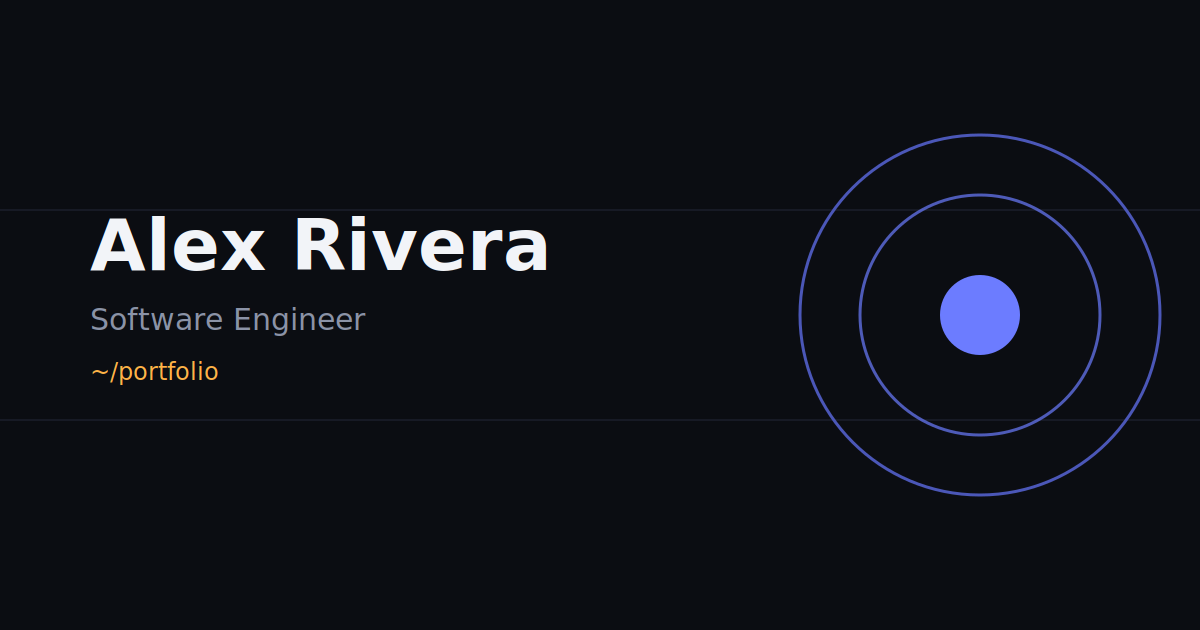
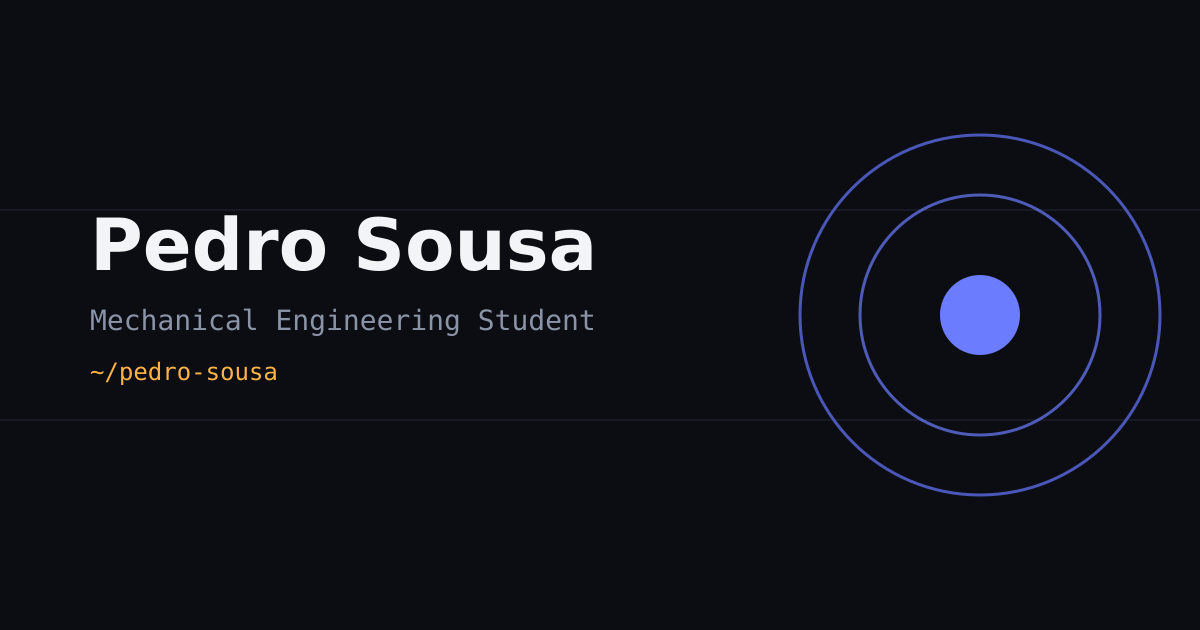
Simplifications

Changed region(s): [[0.0617, 0.3317, 0.4933, 0.4524], [0.0617, 0.4825, 0.4933, 0.5429], [0.0617, 0.573, 0.2467, 0.6032]]

diff --git a/assets/css/micro-interactions.css b/assets/css/micro-interactions.css
@@ -50,18 +50,18 @@ body[data-custom-cursor="active"] .btn {
 }
 
 .cursor-dot {
-  width: 6px;
-  height: 6px;
-  margin: -3px 0 0 -3px;
+  width: 5px;
+  height: 5px;
+  margin: -2.5px 0 0 -2.5px;
   border-radius: var(--radius-full);
   background: var(--color-accent-indigo);
   transition: opacity var(--duration-base) var(--ease-standard);
 }
 
 .cursor-ring {
-  width: 32px;
-  height: 32px;
-  margin: -16px 0 0 -16px;
+  width: 28px;
+  height: 28px;
+  margin: -14px 0 0 -14px;
   transition: opacity var(--duration-base) var(--ease-standard),
     width var(--duration-base) var(--ease-standard),
     height var(--duration-base) var(--ease-standard),
@@ -74,59 +74,22 @@ body[data-custom-cursor="active"] .btn {
   height: 100%;
   border-radius: var(--radius-full);
   border: 1px solid var(--color-accent-indigo-dim);
-  transition: border-radius var(--duration-base) var(--ease-standard),
-    border-color var(--duration-base) var(--ease-standard),
-    background-color var(--duration-base) var(--ease-standard);
+  transition: border-color var(--duration-base) var(--ease-standard);
 }
 
 .cursor-ring[data-hover="true"] {
-  width: 52px;
-  height: 52px;
-  margin: -26px 0 0 -26px;
+  width: 34px;
+  height: 34px;
+  margin: -17px 0 0 -17px;
 }
 
 .cursor-ring[data-hover="true"] .cursor-ring-shape {
   border-color: var(--color-accent-indigo);
-  background: var(--color-accent-indigo-tint);
 }
 
-/* =========================================================
-   Per-page cursor identity
-   Home keeps the plain circle (default rules above). Every other
-   page gets its own simple silhouette on .cursor-ring-shape — the
-   inner element is untouched by cursor.js (which only ever writes
-   `transform` on the outer .cursor-ring, for position), so rotation
-   is fair game here alongside border-radius / border-style.
-   ========================================================= */
-
-/* About: a true diamond — a rotated square, reads as a facet of the
-   node network behind it. */
-body[data-page="about"] .cursor-ring-shape {
-  border-radius: 3px;
-  transform: rotate(45deg);
-}
-
-body[data-page="about"] .cursor-ring[data-hover="true"] .cursor-ring-shape {
-  border-radius: 4px;
-}
-
-/* Projects: a square reticle — a viewfinder framing each card. */
-body[data-page="projects"] .cursor-ring-shape {
-  border-radius: 6px;
-}
-
-/* Contact: a dashed ring — echoes the radar sweep on the page. */
-body[data-page="contact"] .cursor-ring-shape {
-  border-style: dashed;
-}
-
-/* 404: a dashed square, tilted slightly off-axis — a broken,
-   off-signal frame. */
-body[data-page="404"] .cursor-ring-shape {
-  border-radius: 3px;
-  border-style: dashed;
-  transform: rotate(6deg);
-}
+/* One consistent minimal ring across every page — no more per-page
+   diamond/square/dashed/rotated variants. A single, quiet shape reads as
+   more considered than a different gimmick per section. */
 
 @media (prefers-reduced-motion: reduce) {
   .cursor-dot,

diff --git a/index.html b/index.html
@@ -54,22 +54,6 @@
   <link rel="stylesheet" href="assets/css/page-transitions.css">
   <link rel="stylesheet" href="assets/css/svg-line-draw.css">
   <link rel="stylesheet" href="assets/css/noise.css">
-  <link rel="stylesheet" href="assets/css/boot-intro.css">
-
-  <!-- Runs synchronously before the body is parsed: if this tab's session
-       already saw the boot intro, mark <html> immediately so the overlay
-       (see body, below) never gets a chance to paint. See
-       assets/js/boot-intro.js for the rest of the sequence. -->
-  <script>
-    try {
-      if (sessionStorage.getItem("pf-boot-intro-seen") === "1") {
-        document.documentElement.classList.add("no-boot-intro");
-      }
-    } catch (error) {
-      // Private mode etc — degrade silently, worst case the intro plays
-      // again this load.
-    }
-  </script>
 
   <script type="application/ld+json">
   {
@@ -86,30 +70,11 @@
   </script>
 <!-- Private analytics (GoatCounter). Only you see the stats — no
          dashboard, banner, or cookie notice is shown to visitors.
-         Replace YOUR-CODE with your own GoatCounter site code after
-         signing up for free at https://www.goatcounter.com/ -->
-    <script data-goatcounter="https://YOUR-CODE.goatcounter.com/count"
+         Site code: pedro-sousa (goatcounter.com/settings). -->
+    <script data-goatcounter="https://pedro-sousa.goatcounter.com/count"
             async src="https://gc.zgo.at/count.js"></script>
   </head>
 <body data-page="home">
-  <div class="boot-intro" aria-hidden="true">
-    <div class="boot-intro__grid"></div>
-    <div class="boot-intro__panel">
-      <svg class="boot-intro__mark" viewBox="0 0 64 64" xmlns="http://www.w3.org/2000/svg">
-        <path class="boot-intro__mark-hex" d="M32,10 L51,21 L51,43 L32,54 L13,43 L13,21 Z"/>
-        <circle class="boot-intro__mark-circle" cx="32" cy="32" r="7"/>
-      </svg>
-      <p class="boot-intro__label font-mono">SYSTEM</p>
-      <p class="boot-intro__line font-mono"><span class="boot-intro__type">Pedro Sousa</span><span class="boot-intro__caret"></span></p>
-      <div class="boot-intro__bar"><div class="boot-intro__bar-fill"></div></div>
-      <div class="boot-intro__status font-mono text-sm" aria-hidden="true">
-        <span class="boot-intro__status-step boot-intro__status-step--1">Initializing engine</span>
-        <span class="boot-intro__status-step boot-intro__status-step--2">Assembling components</span>
-        <span class="boot-intro__status-step boot-intro__status-step--3">Ready</span>
-      </div>
-    </div>
-  </div>
-
   <a class="skip-link" href="#main">Skip to content</a>
 
   <header class="site-header">

diff --git a/projects.html b/projects.html
@@ -48,9 +48,8 @@
   <link rel="stylesheet" href="assets/css/effects/projects-spotlight.css">
 <!-- Private analytics (GoatCounter). Only you see the stats — no
          dashboard, banner, or cookie notice is shown to visitors.
-         Replace YOUR-CODE with your own GoatCounter site code after
-         signing up for free at https://www.goatcounter.com/ -->
-    <script data-goatcounter="https://YOUR-CODE.goatcounter.com/count"
+         Site code: pedro-sousa (goatcounter.com/settings). -->
+    <script data-goatcounter="https://pedro-sousa.goatcounter.com/count"
             async src="https://gc.zgo.at/count.js"></script>
   </head>
 <body data-page="projects">
@@ -91,10 +90,7 @@
         </div>
       </div>
 
-      <div class="split split--filters mt-16">
-        <h2 class="text-xl">All projects</h2>
-        <div class="filter-bar" data-project-filters role="group" aria-label="Filter projects by category"></div>
-      </div>
+      <h2 class="text-xl mt-16">All projects</h2>
 
       <div class="grid grid--3 mt-6" data-all-projects aria-live="polite">
         <p class="empty-state">Loading projects…</p>

diff --git a/assets/js/main.js b/assets/js/main.js
@@ -41,7 +41,6 @@ import { initTextDecode } from "./text-decode.js";
 import { initCardTilt } from "./tilt.js";
 import { initAvatarTilt } from "./avatar-tilt.js";
 import { initClickRipple } from "./click-ripple.js";
-import { initBootIntro } from "./boot-intro.js";
 import { initReducedMotion } from "./reduced-motion.js";
 import { initPageTransitions } from "./page-transitions.js";
 import { initSvgLineDraw } from "./svg-line-draw.js";
@@ -176,8 +175,6 @@ function initPageBackground() {
 function init() {
   if (initialized) return;
   initialized = true;
-
-  initBootIntro();
 
   // Reduced-motion first so the boolean is mirrored on <body>
   // before any subsequent module inspects it.

diff --git a/project.html b/project.html
@@ -57,9 +57,8 @@
   <link rel="stylesheet" href="assets/css/effects/projects-spotlight.css">
 <!-- Private analytics (GoatCounter). Only you see the stats — no
          dashboard, banner, or cookie notice is shown to visitors.
-         Replace YOUR-CODE with your own GoatCounter site code after
-         signing up for free at https://www.goatcounter.com/ -->
-    <script data-goatcounter="https://YOUR-CODE.goatcounter.com/count"
+         Site code: pedro-sousa (goatcounter.com/settings). -->
+    <script data-goatcounter="https://pedro-sousa.goatcounter.com/count"
             async src="https://gc.zgo.at/count.js"></script>
   </head>
 <body data-page="project">

diff --git a/contact.html b/contact.html
@@ -50,9 +50,8 @@
   <link rel="stylesheet" href="assets/css/effects/contact-radar.css">
 <!-- Private analytics (GoatCounter). Only you see the stats — no
          dashboard, banner, or cookie notice is shown to visitors.
-         Replace YOUR-CODE with your own GoatCounter site code after
-         signing up for free at https://www.goatcounter.com/ -->
-    <script data-goatcounter="https://YOUR-CODE.goatcounter.com/count"
+         Site code: pedro-sousa (goatcounter.com/settings). -->
+    <script data-goatcounter="https://pedro-sousa.goatcounter.com/count"
             async src="https://gc.zgo.at/count.js"></script>
   </head>
 <body data-page="contact">

diff --git a/about.html b/about.html
@@ -55,9 +55,8 @@
   <link rel="stylesheet" href="assets/css/effects/tech-network.css">
 <!-- Private analytics (GoatCounter). Only you see the stats — no
          dashboard, banner, or cookie notice is shown to visitors.
-         Replace YOUR-CODE with your own GoatCounter site code after
-         signing up for free at https://www.goatcounter.com/ -->
-    <script data-goatcounter="https://YOUR-CODE.goatcounter.com/count"
+         Site code: pedro-sousa (goatcounter.com/settings). -->
+    <script data-goatcounter="https://pedro-sousa.goatcounter.com/count"
             async src="https://gc.zgo.at/count.js"></script>
   </head>
 <body data-page="about">

diff --git a/404.html b/404.html
@@ -35,9 +35,8 @@
   <link rel="stylesheet" href="assets/css/effects/error-signal.css">
 <!-- Private analytics (GoatCounter). Only you see the stats — no
          dashboard, banner, or cookie notice is shown to visitors.
-         Replace YOUR-CODE with your own GoatCounter site code after
-         signing up for free at https://www.goatcounter.com/ -->
-    <script data-goatcounter="https://YOUR-CODE.goatcounter.com/count"
+         Site code: pedro-sousa (goatcounter.com/settings). -->
+    <script data-goatcounter="https://pedro-sousa.goatcounter.com/count"
             async src="https://gc.zgo.at/count.js"></script>
   </head>
 <body data-page="404">

diff --git a/cv.html b/cv.html
@@ -55,9 +55,8 @@
   <link rel="stylesheet" href="assets/css/cv.css">
 <!-- Private analytics (GoatCounter). Only you see the stats — no
          dashboard, banner, or cookie notice is shown to visitors.
-         Replace YOUR-CODE with your own GoatCounter site code after
-         signing up for free at https://www.goatcounter.com/ -->
-    <script data-goatcounter="https://YOUR-CODE.goatcounter.com/count"
+         Site code: pedro-sousa (goatcounter.com/settings). -->
+    <script data-goatcounter="https://pedro-sousa.goatcounter.com/count"
             async src="https://gc.zgo.at/count.js"></script>
   </head>
 <body data-page="cv">

diff --git a/assets/js/render-site.js b/assets/js/render-site.js
@@ -56,10 +56,6 @@ async function applySiteIdentity() {
       el.textContent = value;
     }
   });
-
-  document.title = document.title
-    .replace(/Alex Rivera/g, site.name)
-    .replace(/alex-rivera/g, site.brand);
 }
 
 /**

diff --git a/docs/TODO.md b/docs/TODO.md
@@ -1,16 +1,28 @@
 # TODO.md
 
 ## Before deploying with real content
-- [ ] Replace placeholder name/bio copy in `index.html` and `about.html`.
-- [ ] Replace all six entries in `assets/data/projects.json` with real
+- [x] Replace placeholder name/bio copy in `index.html` and `about.html`.
+- [x] Replace all six entries in `assets/data/projects.json` with real
       projects (or trim/extend the array — the grid handles any count).
-- [ ] Replace `assets/data/skills.json`, and the education/awards in `cv.json`.
-- [ ] Replace `assets/data/socials.json`, and the footer/structured-data
+- [x] Replace `assets/data/skills.json`, and the education/awards in `cv.json`.
+- [x] Replace `assets/data/socials.json`, and the footer/structured-data
       copies described in `SETUP.md`.
-- [ ] Replace placeholder images in `assets/images/` (avatar, project
-      covers, OG image) with real photos/screenshots.
-- [ ] Find-and-replace the placeholder site URL
+- [x] Find-and-replace the placeholder site URL
       (`https://alexrivera.github.io/portfolio/`) with the real one.
+- [x] OG/social-share image (`assets/images/og-image.svg` + exported
+      `.png`) no longer says "Alex Rivera" — regenerated with the real
+      name/role.
+- [ ] **Avatar is still a placeholder.** `assets/images/avatar.svg` is a
+      generated silhouette with "substituir por foto real" baked into the
+      SVG text — this needs an actual photo before sharing the site
+      widely. Drop a real photo in as `assets/images/avatar.jpg` (or
+      similar) and update the `src` in `about.html`.
+- [ ] Project cover images (`project-*.svg` in `assets/images/`) are still
+      generic geometric placeholders, not real screenshots/renders — swap
+      in real photos/CAD renders per project if you want the cards to
+      show actual work instead of abstract icons.
+- [x] GoatCounter analytics configured — site code `pedro-sousa` is live
+      in all 7 pages.
 - [ ] Run through the "Verifying before you deploy" checklist in
       `SETUP.md`.
 

diff --git a/docs/CHANGELOG.md b/docs/CHANGELOG.md
@@ -3,6 +3,40 @@
 All notable changes to this project are documented here. Format loosely
 follows [Keep a Changelog](https://keepachangelog.com).
 
+## [Unreleased] — Real-content cleanup & polish pass
+
+### Fixed
+- **OG/social-share image** (`assets/images/og-image.svg` + exported
+  `.png`) still said "Alex Rivera — Software Engineer" — this is what
+  rendered as the link preview on LinkedIn/WhatsApp/etc. Regenerated with
+  the real name and role.
+- Removed a dead `document.title` find-and-replace in `render-site.js`
+  left over from the original template (real content no longer contains
+  "Alex Rivera" anywhere, so it was a permanent no-op).
+- `sitemap.xml` was missing `cv.html`.
+- GoatCounter analytics configured with the real site code
+  (`pedro-sousa`) across all 7 pages, replacing the `YOUR-CODE` placeholder.
+
+### Changed
+- **Featured projects** swapped to better represent mechanical engineering
+  work: Vinted OS and Personal Portfolio (software/meta) are no longer
+  featured; Fatigue Study (FEA) and Pin Clutch (concept → CAD → kinematics
+  → prototype) are now featured alongside Formula Water.
+- **Category filter bar** removed from the Projects page — it always
+  shows the full grid now, no Software/Mechanical Engineering tabs.
+- **Custom cursor** simplified: gentler hover growth (28px → 34px instead
+  of 32px → 52px), no background fill tint on hover, and the four
+  per-page shape variants (diamond on About, square on Projects, dashed
+  on Contact, tilted dashed square on 404) were removed in favor of one
+  consistent minimal ring everywhere.
+
+### Removed
+- **Boot intro** (the "SYSTEM / Initializing engine…" splash screen on
+  first Home visit) removed entirely — `assets/js/boot-intro.js`,
+  `assets/css/boot-intro.css`, the overlay markup and the
+  sessionStorage-gating inline script in `index.html` are all gone. The
+  site now renders straight to content on every load.
+
 ## [Unreleased] — Phase 2: Project Showcase Enhancement
 
 ### Added
